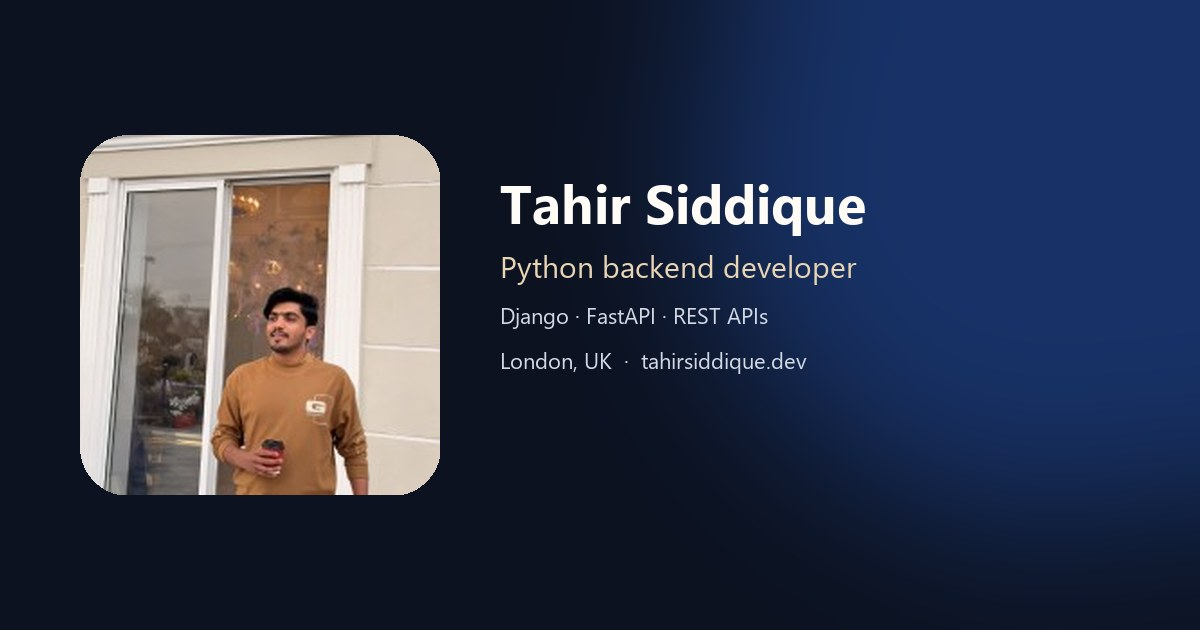
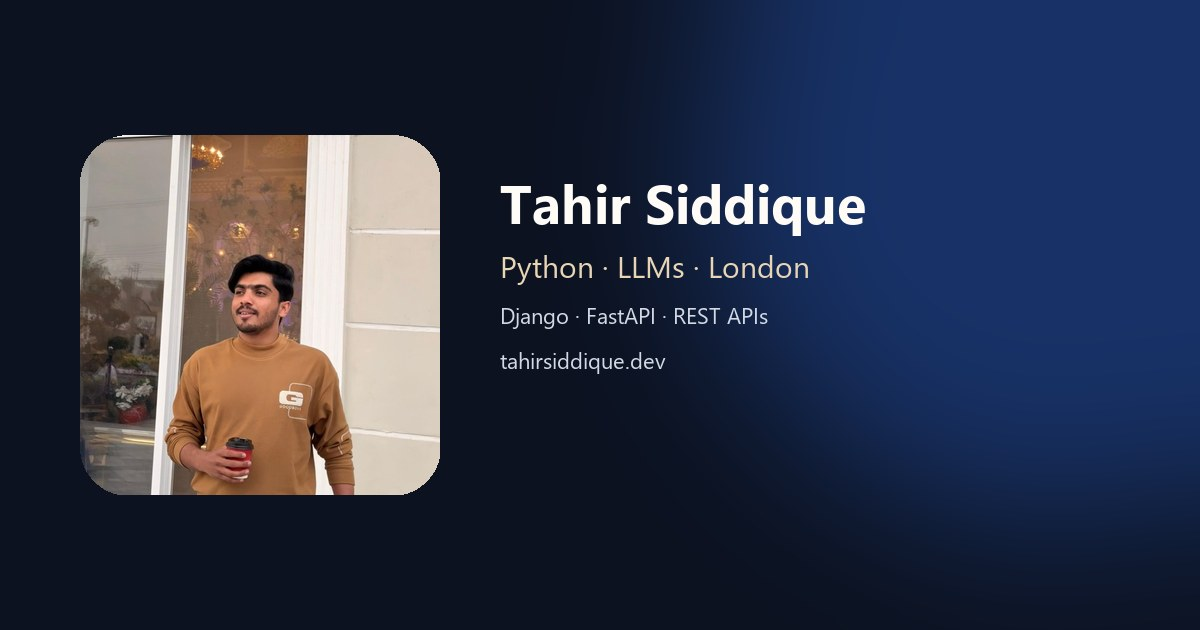
Use the current cafe portrait as the site photo.
Replace the old LinkedIn crop so the hero and share card match the photo you sent.

diff --git a/index.html b/index.html
@@ -166,8 +166,8 @@
           <img
             src="assets/tahir-siddique-python-developer.jpg"
             alt="Tahir Siddique, Python backend developer in London"
-            width="200"
-            height="200"
+            width="640"
+            height="640"
             fetchpriority="high">
         </div>
         <div class="hero-content">

diff --git a/styles.css b/styles.css
@@ -137,7 +137,7 @@ a { color: var(--cobalt-deep); }
   width: 100%;
   height: 100%;
   object-fit: cover;
-  object-position: center 18%;
+  object-position: center 30%;
 }
 
 .hero-place {
